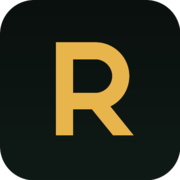
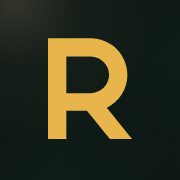
style+perf: スマホの横はみ出し解消・一覧の軽量化・ホーム画面アイコンと名前（4サイト同一）
- ヒーロー用の金の粒・光・中央寄せの罫をトップのヒーローだけに限定。/membership で幅540pxの光が
  スマホの画面幅を押し広げ、ヘッダー右端のテーマ切替・メニューが画面外へ出ていた（main に overflow-x:clip も）
- 記事行の「→」を絶対配置に。題名が行幅いっぱいのとき見えない矢印だけが次の行に落ちて空行ができていた
- /membership・/tags の行をインライン style からクラスへ（HTML と RSC の二重持ちを削減。CL 実測 1.73MB→1.01MB・749KB→283KB）
- トップの見出しで「使いこなす。」を途中で折り返さない（375px で「す。」だけが3行目に落ちていた）
- ホーム画面に追加したときの名前を apple-mobile-web-app-title / manifest で指定（従来は各ページの <title> が付いていた）
- apple-touch-icon / PWA アイコンを角まで塗った正方形に作り直し（maskable 追加・図形の中心と大きさを揃え、左上に淡いシャンパンゴールドの光）
- gtag.js の読み込みを load 後へ（計測の呼び出しは従来どおり即時に積む）

Claude-Session: https://claude.ai/code/session_01EveTFFqsYuRWH2eeUddaZd

diff --git a/src/app/globals.css b/src/app/globals.css
@@ -548,6 +548,7 @@ html { overflow-x: clip; }
   main a[style*="border-bottom"] > h3::after {
     content: "→";
     display: inline-block;
+    position: absolute; /* 2026-10-17: 題名が行幅いっぱいのとき、見えない矢印だけが次の行へ落ちて題名と説明のあいだに空行ができていた */
     margin-left: 10px;
     color: var(--accent-coral);
     opacity: 0;
@@ -770,7 +771,7 @@ main h1::after {
   transform-origin: left;
   animation: ruleDraw 1s var(--ease-out) 0.35s backwards;
 }
-main > div > section:first-child h1::after { margin-inline: auto; }
+main > div > section:first-child:has(.animate-hero-glow) h1::after { margin-inline: auto; }
 main h2 { position: relative; }
 main h2::before {
   content: "";
@@ -820,8 +821,8 @@ footer::before {
 [data-fx="brand"]:hover > span:nth-child(2) { color: var(--gold) !important; }
 
 /* ヒーロー: 金の細かな粒がゆっくり立ちのぼり、背後に金の光がにじむ */
-main > div > section:first-child { position: relative; }
-main > div > section:first-child::before {
+main > div > section:first-child:has(.animate-hero-glow) { position: relative; }
+main > div > section:first-child:has(.animate-hero-glow)::before {
   content: "";
   position: absolute;
   inset: 0;
@@ -842,8 +843,8 @@ main > div > section:first-child::before {
   mask-image: linear-gradient(transparent, #000 22%, #000 78%, transparent);
   animation: dustDrift 26s linear infinite, dustTwinkle 5s ease-in-out infinite alternate;
 }
-[data-theme="light"] main > div > section:first-child::before { filter: saturate(1.2); opacity: 0.5; }
-main > div > section:first-child::after {
+[data-theme="light"] main > div > section:first-child:has(.animate-hero-glow)::before { filter: saturate(1.2); opacity: 0.5; }
+main > div > section:first-child:has(.animate-hero-glow)::after {
   content: "";
   position: absolute;
   left: 50%;
@@ -859,8 +860,8 @@ main > div > section:first-child::after {
 }
 
 /* ヒーロー（先頭の節）が画面外のあいだは、金の粒・光・文字の流れを止める（見た目は同じ・読んでいる間の再描画を無くす。属性は Motion.tsx） */
-html[data-top-off] main > div > section:first-child::before,
-html[data-top-off] main > div > section:first-child::after,
+html[data-top-off] main > div > section:first-child:has(.animate-hero-glow)::before,
+html[data-top-off] main > div > section:first-child:has(.animate-hero-glow)::after,
 html[data-top-off] main h1 > span:is([style*="font-weight:700"], [style*="font-weight: 700"]),
 html[data-top-off] .animate-hero-glow { animation-play-state: paused; }
 
@@ -965,7 +966,7 @@ html[data-nav] main > * { animation: pageIn 0.55s var(--ease-out) backwards; }
 @media (prefers-reduced-motion: reduce) {
   main h1 > span:is([style*="font-weight:700"], [style*="font-weight: 700"]),
   main h1::after,
-  main > div > section:first-child::before, main > div > section:first-child::after,
+  main > div > section:first-child:has(.animate-hero-glow)::before, main > div > section:first-child:has(.animate-hero-glow)::after,
   [data-pop], html[data-nav] main > *, header::after, main > div > section:not(:first-child)::before { animation: none !important; }
   .cursor-glow { display: none; }
 }
@@ -1094,3 +1095,49 @@ main a[style*="border-bottom"]:has(> h3)[data-rv-in]:not([data-rv-fast])::after 
 }
 .sns-icon:focus-visible { color: var(--gold); }
 .sns-icon:first-child { margin-left: -11px; }
+
+/* ── 2026-10-17 ブラッシュアップ（4 サイト同一）── */
+
+/* ヒーロー用の金の粒・光・中央寄せの罫は、トップのヒーローだけに限定（:has(.animate-hero-glow)）。
+   以前は各ページの先頭の節すべてに掛かり、/membership では幅 540px の光がスマホの画面幅を押し広げてヘッダー右端のメニュー・テーマ切替が画面外へ出ていた。
+   左寄せの見出しの下の罫が中央に浮く・課金カードの上に粒が散る、もこれが原因。保険として main の横はみ出しも切る（clip は sticky を壊さない） */
+main { overflow-x: clip; }
+
+/* 一覧の行（/membership・タグ一覧など数百件並ぶページ）。インライン style をやめてクラスに＝HTML と RSC ペイロードの両方が軽くなる。
+   border-bottom だけは各行のインラインに残す（行のホバー・出現の演出が [style*="border-bottom"] で行を見分けている） */
+.mono { font-family: var(--font-dm-mono), 'DM Mono', monospace; }
+.ar { display: block; padding: 24px 0; text-decoration: none; transition: padding-left 0.3s; }
+.ar-meta { display: flex; align-items: center; gap: 12px; margin-bottom: 8px; flex-wrap: wrap; }
+.ar-lock {
+  font-size: 10px;
+  letter-spacing: 0.1em;
+  padding: 2px 8px;
+  border-radius: 4px;
+  background: color-mix(in srgb, var(--lock-accent, var(--accent-coral)) 12%, transparent);
+  color: var(--lock-accent, var(--accent-coral));
+}
+.ar-cat { font-size: 11px; letter-spacing: 0.06em; }
+.ar-sep { font-size: 11px; color: var(--text-faint); }
+.ar-title { font-size: clamp(16px, 2.5vw, 19px); font-weight: 500; color: var(--text-secondary); margin-bottom: 6px; line-height: 1.5; }
+.ar-desc { font-size: 13px; color: var(--text-dim); line-height: 1.6; max-width: 680px; }
+.lvl { font-size: 11px; padding: 2px 8px; border-radius: 3px; letter-spacing: 0.03em; --lv: var(--accent-gold); background: color-mix(in srgb, var(--lv) 12%, transparent); color: var(--lv); }
+.lvl-b { --lv: var(--accent-green); }
+.lvl-a { --lv: var(--accent-coral); }
+
+/* タグ一覧（雲と索引） */
+.tc { color: var(--text-secondary); text-decoration: none; transition: all 0.2s; padding: 4px 8px; border-radius: 4px; white-space: nowrap; }
+.tc > sup { font-size: 10px; color: var(--text-dim); margin-left: 2px; }
+.ti {
+  display: flex;
+  justify-content: space-between;
+  align-items: center;
+  padding: 10px 14px;
+  border-radius: 6px;
+  border: 1px solid var(--border-subtle);
+  text-decoration: none;
+  font-size: 13px;
+  color: var(--text-secondary);
+  transition: all 0.2s;
+}
+.ti > span:first-child { overflow: hidden; text-overflow: ellipsis; white-space: nowrap; }
+.ti > span:last-child { font-size: 11px; color: var(--text-dim); margin-left: 8px; flex-shrink: 0; }

diff --git a/src/app/[locale]/membership/page.tsx b/src/app/[locale]/membership/page.tsx
@@ -202,49 +202,28 @@ export default async function MembershipPage({ params }: Props) {
         ) : (
           <div>
             {premiumArticles.map((article) => (
+              // 行の見た目は globals.css の .ar 系クラス（2026-10-17: 800 行超のインライン style が HTML と RSC で二重になり 1.7〜2.0MB あった）。
+              // border-bottom だけはインラインに残す（行のホバー・出現の演出が [style*="border-bottom"] で行を見分けている）
               <a
                 key={`${article.category}/${article.slug}`}
                 href={`${prefix}/articles/${article.category}/${article.slug}`}
-                style={{
-                  display: "block",
-                  padding: "24px 0",
-                  borderBottom: "1px solid var(--border-subtle)",
-                  textDecoration: "none",
-                  transition: "padding-left 0.3s",
-                }}
+                className="ar"
+                style={{ borderBottom: "1px solid var(--border-subtle)" }}
               >
-                <div style={{ display: "flex", alignItems: "center", gap: 12, marginBottom: 8, flexWrap: "wrap" }}>
-                  <span
-                    style={{
-                      fontSize: 10,
-                      fontFamily: "var(--font-dm-mono), 'DM Mono', monospace",
-                      letterSpacing: "0.1em",
-                      padding: "2px 8px",
-                      borderRadius: 4,
-                      background: "color-mix(in srgb, var(--accent-coral) 12%, transparent)",
-                      color: "var(--accent-coral)",
-                    }}
-                  >
-                    {t.locked}
-                  </span>
-                  <span style={{ fontSize: 11, color: catColor(article.category), fontFamily: "var(--font-dm-mono), 'DM Mono', monospace", letterSpacing: "0.06em" }}>
+                <div className="ar-meta">
+                  <span className="ar-lock mono">{t.locked}</span>
+                  <span className="ar-cat mono" style={{ color: catColor(article.category) }}>
                     {catIcon(article.category)} {CATEGORY_LABELS[locale]?.[article.category] || article.category}
                   </span>
-                  <span style={{ fontSize: 11, color: "var(--text-faint)" }}>/</span>
-                  <span style={{ fontSize: 11, color: "var(--text-faint)", fontFamily: "var(--font-dm-mono), 'DM Mono', monospace" }}>
-                    {article.date?.split("T")[0]}
-                  </span>
+                  <span className="ar-sep">/</span>
+                  <span className="ar-sep mono">{article.date?.split("T")[0]}</span>
                   <LevelBadge
                     level={article.level}
                     label={LEVEL_LABELS[locale]?.[article.level] || article.level}
                   />
                 </div>
-                <h3 style={{ fontSize: "clamp(16px, 2.5vw, 19px)", fontWeight: 500, color: "var(--text-secondary)", marginBottom: 6, lineHeight: 1.5 }}>
-                  {article.title}
-                </h3>
-                <p style={{ fontSize: 13, color: "var(--text-dim)", lineHeight: 1.6, maxWidth: 680 }}>
-                  {article.description}
-                </p>
+                <h3 className="ar-title">{article.title}</h3>
+                <p className="ar-desc">{article.description}</p>
               </a>
             ))}
           </div>

diff --git a/src/app/[locale]/tags/page.tsx b/src/app/[locale]/tags/page.tsx
@@ -95,19 +95,11 @@ export default async function TagsPage({ params }: Props) {
             <a
               key={tag}
               href={`${prefix}/tag/${encodeURIComponent(tag)}`}
-              style={{
-                fontSize: size,
-                color: "var(--text-secondary)",
-                textDecoration: "none",
-                opacity,
-                transition: "all 0.2s",
-                padding: "4px 8px",
-                borderRadius: 4,
-                whiteSpace: "nowrap",
-              }}
+              className="tc"
+              style={{ fontSize: +size.toFixed(1), opacity: +opacity.toFixed(2) }}
             >
               {tag}
-              <sup style={{ fontSize: 10, color: "var(--text-dim)", marginLeft: 2 }}>{count}</sup>
+              <sup>{count}</sup>
             </a>
           );
         })}
@@ -120,34 +112,9 @@ export default async function TagsPage({ params }: Props) {
         </h2>
         <div style={{ display: "grid", gridTemplateColumns: "repeat(auto-fill, minmax(220px, 1fr))", gap: 8 }}>
           {tagCounts.map(({ tag, count }) => (
-            <a
-              key={tag}
-              href={`${prefix}/tag/${encodeURIComponent(tag)}`}
-              style={{
-                display: "flex",
-                justifyContent: "space-between",
-                alignItems: "center",
-                padding: "10px 14px",
-                borderRadius: 6,
-                border: "1px solid var(--border-subtle)",
-                textDecoration: "none",
-                fontSize: 13,
-                color: "var(--text-secondary)",
-                transition: "all 0.2s",
-              }}
-            >
-              <span style={{ overflow: "hidden", textOverflow: "ellipsis", whiteSpace: "nowrap" }}>{tag}</span>
-              <span
-                style={{
-                  fontSize: 11,
-                  fontFamily: "var(--font-dm-mono), 'DM Mono', monospace",
-                  color: "var(--text-dim)",
-                  marginLeft: 8,
-                  flexShrink: 0,
-                }}
-              >
-                {count}
-              </span>
+            <a key={tag} href={`${prefix}/tag/${encodeURIComponent(tag)}`} className="ti">
+              <span>{tag}</span>
+              <span className="mono">{count}</span>
             </a>
           ))}
         </div>

diff --git a/src/app/[locale]/layout.tsx b/src/app/[locale]/layout.tsx
@@ -76,14 +76,9 @@ export default async function LocaleLayout({
           }}
         />
         <script dangerouslySetInnerHTML={{ __html: themeScript }} />
-        {/* Favicon — PNG/ICO for search engine compatibility (not SVG) */}
-        <link rel="icon" href="/favicon.ico" sizes="32x32" />
-        <link rel="icon" href="/favicon-32.png" type="image/png" sizes="32x32" />
-        <link rel="icon" href="/favicon-48.png" type="image/png" sizes="48x48" />
-        <link rel="apple-touch-icon" href="/apple-touch-icon.png" />
-        {/* Google Analytics — loaded directly without consent gate (not required under Japanese law) */}
-        <script async src="https://www.googletagmanager.com/gtag/js?id=G-H9JTCV49KJ" />
-        <script dangerouslySetInnerHTML={{ __html: `window.dataLayer=window.dataLayer||[];function gtag(){dataLayer.push(arguments)}gtag('js',new Date());gtag('config','G-H9JTCV49KJ')` }} />
+        {/* ファビコン・apple-touch-icon は app/layout.tsx の metadata.icons が出す（ここにも書くと二重になっていた・2026-10-17 整理） */}
+        {/* Google Analytics — 計測の呼び出しはすぐ積み、gtag.js（約 150KB）の読み込みだけ load 後に回す（2026-10-17・初回描画と操作の応答を優先） */}
+        <script dangerouslySetInnerHTML={{ __html: `window.dataLayer=window.dataLayer||[];function gtag(){dataLayer.push(arguments)}gtag('js',new Date());gtag('config','G-H9JTCV49KJ');(function(){function l(){var s=document.createElement('script');s.async=true;s.src='https://www.googletagmanager.com/gtag/js?id=G-H9JTCV49KJ';document.head.appendChild(s)}if(document.readyState==='complete')setTimeout(l,0);else addEventListener('load',function(){setTimeout(l,0)},{once:true})})()` }} />
         <link rel="alternate" type="application/rss+xml" title="Rork Lab RSS" href={locale === "ja" ? "/feed.xml" : "/en/feed.xml"} />
       </head>
       <body>

diff --git a/src/components/ui/LevelBadge.tsx b/src/components/ui/LevelBadge.tsx
@@ -1,10 +1,11 @@
 "use client";
 
-const LEVEL_COLORS: Record<string, { bg: string; text: string }> = {
-  beginner: { bg: "color-mix(in srgb, var(--accent-green) 12%, transparent)", text: "var(--accent-green)" },
-  intermediate: { bg: "color-mix(in srgb, var(--accent-gold) 12%, transparent)", text: "var(--accent-gold)" },
-  advanced: { bg: "color-mix(in srgb, var(--accent-coral) 12%, transparent)", text: "var(--accent-coral)" },
-  "intermediate-advanced": { bg: "color-mix(in srgb, var(--accent-gold) 12%, transparent)", text: "var(--accent-gold)" },
+// 色は globals.css の .lvl 系クラス（2026-10-17: 一覧で数百個並ぶため、インライン style をやめて HTML と RSC を軽く）
+const LEVEL_CLASS: Record<string, string> = {
+  beginner: "lvl-b",
+  intermediate: "lvl-i",
+  advanced: "lvl-a",
+  "intermediate-advanced": "lvl-i",
 };
 
 interface LevelBadgeProps {
@@ -13,20 +14,5 @@ interface LevelBadgeProps {
 }
 
 export function LevelBadge({ level, label }: LevelBadgeProps) {
-  const colors = LEVEL_COLORS[level] || LEVEL_COLORS.intermediate;
-  return (
-    <span
-      style={{
-        fontSize: 11,
-        padding: "2px 8px",
-        borderRadius: 3,
-        background: colors.bg,
-        color: colors.text,
-        fontFamily: "var(--font-dm-mono), 'DM Mono', monospace",
-        letterSpacing: "0.03em",
-      }}
-    >
-      {label}
-    </span>
-  );
+  return <span className={`lvl mono ${LEVEL_CLASS[level] || "lvl-i"}`}>{label}</span>;
 }

diff --git a/src/app/layout.tsx b/src/app/layout.tsx
@@ -43,10 +43,16 @@ export const metadata: Metadata = {
       { url: "/favicon-16.png", sizes: "16x16", type: "image/png" },
       { url: "/icon.svg", type: "image/svg+xml" },
     ],
+    // 2026-10-17: 角まで塗った正方形（iOS が自分で角を丸める）。差し替え時は ?v= を上げる（7 日キャッシュ）
     apple: [
-      { url: "/apple-touch-icon.png", sizes: "180x180" },
+      { url: "/apple-touch-icon.png?v=2", sizes: "180x180" },
     ],
   },
+  // ホーム画面に追加したときの名前（無いと iOS はそのページの <title> を使い、記事の題名や「Rork Lab — …」が途中で切れて付いていた）
+  manifest: "/manifest.json",
+  applicationName: "Rork Lab",
+  // capable: false を明示（省略すると Next が mobile-web-app-capable=yes を出し、ホーム画面から開くと戻るボタンの無い全画面になる）
+  appleWebApp: { title: "Rork Lab", capable: false },
   robots: {
     index: true,
     follow: true,

diff --git a/src/app/[locale]/HomeClient.tsx b/src/app/[locale]/HomeClient.tsx
@@ -107,7 +107,8 @@ export default function HomeClient({ articles, counts, locale }: HomeClientProps
             {t("hero.title1")}
             <br />
             <span style={{ fontWeight: 700 }}>{t("hero.title2")}</span>
-            {t("hero.title3")}
+            {/* 日本語は「使いこなす。」の途中で折り返さない（375px で「す。」だけが 3 行目に落ちていた・2026-10-17） */}
+            {locale === "ja" ? <span className="seg">{t("hero.title3")}</span> : t("hero.title3")}
           </h1>
 
           <p style={{ fontSize: "clamp(14px, 2vw, 17px)", color: "var(--text-muted)", maxWidth: 520, margin: "0 auto 48px", lineHeight: 1.8, fontWeight: 300, whiteSpace: "pre-line" }}>
